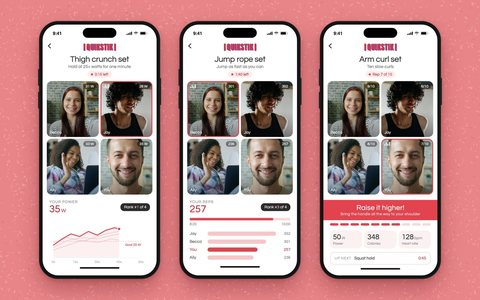
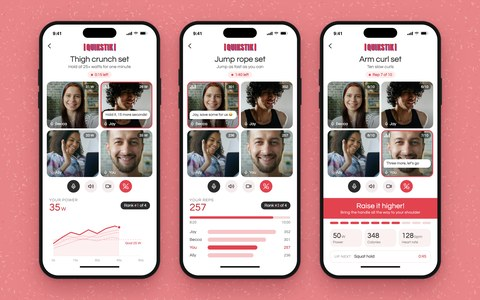
Quikstik: say it's social with anyone, and show the voice call
- One-liner: an app like Peloton but far more social, not just friends
- App slide: call controls, mics on every name (one muted) and a caption
  on whoever is talking, so the live audio reads at a glance
- Hover preview and alt text match

diff --git a/index.html b/index.html
@@ -554,7 +554,7 @@ const SHELF=[ // index 0 = front of the shelf (newest)
  {id:"hero",name:"Hero Chat",style:"marker",c1:"#efe9dc",c2:"#f2a7c3",c3:"#c2185b",ink2:"#1b1b1b",year:"2023",role:"Full stack · UX/UI",result:"**715** ratings worldwide, **4.8★**",what:"AI chatbots, with other people's chats to explore. Built with my brother; live on the App Store as **WWJD**",link:"https://apps.apple.com/us/app/wwjd-what-would-jesus-do/id6445903415?platform=iphone",linkLabel:"iPhone app"},
  {id:"ease",name:"Ease.",style:"block",c1:"#1F4D3A",c2:"#8fc9a9",c3:"#FAF8F3",ink2:"#FAF8F3",year:"2023",role:"Solo builder",result:"Drafts the notes that take therapists **10 hours** a month",what:"Records a therapy session, with the client's consent, and drafts notes and themes for the therapist to approve"},
  {id:"tfw",name:"That Feeling When",style:"grid",c1:"#a77bff",c2:"#f5c518",c3:"#e63946",ink2:"#111",year:"2020–21",role:"Product lead · team of 4",result:"**19 of 20** kids wanted to play again",what:"My senior capstone, built during the pandemic to help kids learn the words for their emotions. It plays like Among Us: everyone picks how they'd feel in the same situation, except a secret imposter with a different one, and kids explain their feelings to find them. Tested with 40+ kids, then rebuilt as an online game in 2021",link:"https://dhalps.webflow.io/works/that-feeling-when-card-game",linkLabel:"Case study"},
- {id:"quikstik",name:"Quikstik",style:"block",c1:"#1d6fd1",c2:"#9ad1f5",c3:"#fff",ink2:"#fff",year:"2019",role:"Product design",result:"Pitched to **IKEA**",what:"Social home-workout gear with sensor handles, plus an app for working out with friends",link:"https://dhalps.webflow.io/works/quikstik",linkLabel:"Case study"},
+ {id:"quikstik",name:"Quikstik",style:"block",c1:"#1d6fd1",c2:"#9ad1f5",c3:"#fff",ink2:"#fff",year:"2019",role:"Product design",result:"Pitched to **IKEA**",what:"Home-workout gear with sensor handles, plus an app like Peloton but far more social",link:"https://dhalps.webflow.io/works/quikstik",linkLabel:"Case study"},
  {id:"bills",name:"Essential Bills",style:"marker",c1:"#efe9dc",c2:"#2a6f3e",c3:"#1b4d2b",ink2:"#1b1b1b",year:"2019",role:"Client design",result:"Strangers paying strangers' bills",what:"Donation app designed for a venture studio",link:"https://dhalps.webflow.io/works/essential-bills",linkLabel:"Case study"},
  {id:"troops",name:"Troops",style:"stripes",c1:"#14806b",c2:"#f0e6c8",c3:"#e2533b",ink2:"#fff",year:"2017",role:"Co-founder",result:"**100s** of deliveries + a **YC** interview",what:"Campus delivery, by students for students",link:"https://dhalps.webflow.io/works/troops",linkLabel:"Case study"},
  {id:"contact",name:"Your track here",style:"marker",c1:"#efe9dc",c2:"#7cffc4",c3:"#111",ink2:"#1b1b1b",year:"Next",role:"Open to talk",result:"Let's make the next one",what:"Got an idea or a role in mind? Email is fastest.",link:"mailto:danielhalper4@gmail.com",linkLabel:"Email Daniel",contact:true}
@@ -640,7 +640,7 @@ const WALK={
    {src:'assets/tfw-card.jpg',alt:'A That Feeling When situation card listing five situations, beside a Recognize card asking what emotion you would feel'},
    {src:'assets/tfw-decks.jpg',alt:'The full card set: scenario cards, and prompt cards for emotional vocabulary, coping skills, social comprehension and social support'},{src:'assets/tfw-prototype.jpg',alt:'The first prototype decks: prompts, scenarios and roles'}],
    chapters:[{id:'online',label:'Online game',i:0},{id:'wheel',label:'Emotion wheel',i:3},{id:'cards',label:'The cards',i:6},{id:'proto',label:'First prototype',i:8}]},
- quikstik:{kind:'pan',imgs:[{src:'assets/quikstik-app.jpg',mv:'nudge',ms:6000,ui:1,alt:'The Quikstik app on three phones: a thigh crunch set, a jump rope set and an arm curl set, with friends on video, live rankings and coaching'},
+ quikstik:{kind:'pan',imgs:[{src:'assets/quikstik-app.jpg',mv:'nudge',ms:6000,ui:1,alt:'The Quikstik app on three phones: a thigh crunch set, a jump rope set and an arm curl set, with four people on a live video and voice call cheering each other on, mic controls, live rankings and coaching'},
    {src:'assets/quikstik-kit.jpg',mv:'push',ms:5000,note:'* High-fidelity 3D models I created',alt:'The Quikstik kit: a hand grip, jump rope handles and a resistance band with handles'},{src:'assets/quikstik-rope.jpg',mv:'panr',ms:5000,note:'* High-fidelity 3D models I created',alt:'The Quikstik jump rope handles'},
    {src:'assets/quikstik-grip.jpg',mv:'pull',ms:5000,note:'* High-fidelity 3D models I created',alt:'The Quikstik hand grip'},{src:'assets/quikstik-band.jpg',mv:'panl',ms:5000,note:'* High-fidelity 3D models I created',alt:'The Quikstik arm curl band you stand on, with its cords, the two handles and their end caps'},
    {src:'assets/quikstik-sketch.jpg',mv:'pand',ms:6000,alt:'Concept sketch: one pair of Quikstik handles becoming a thigh and arm crunch, a jump rope and an arm curl band'}],
